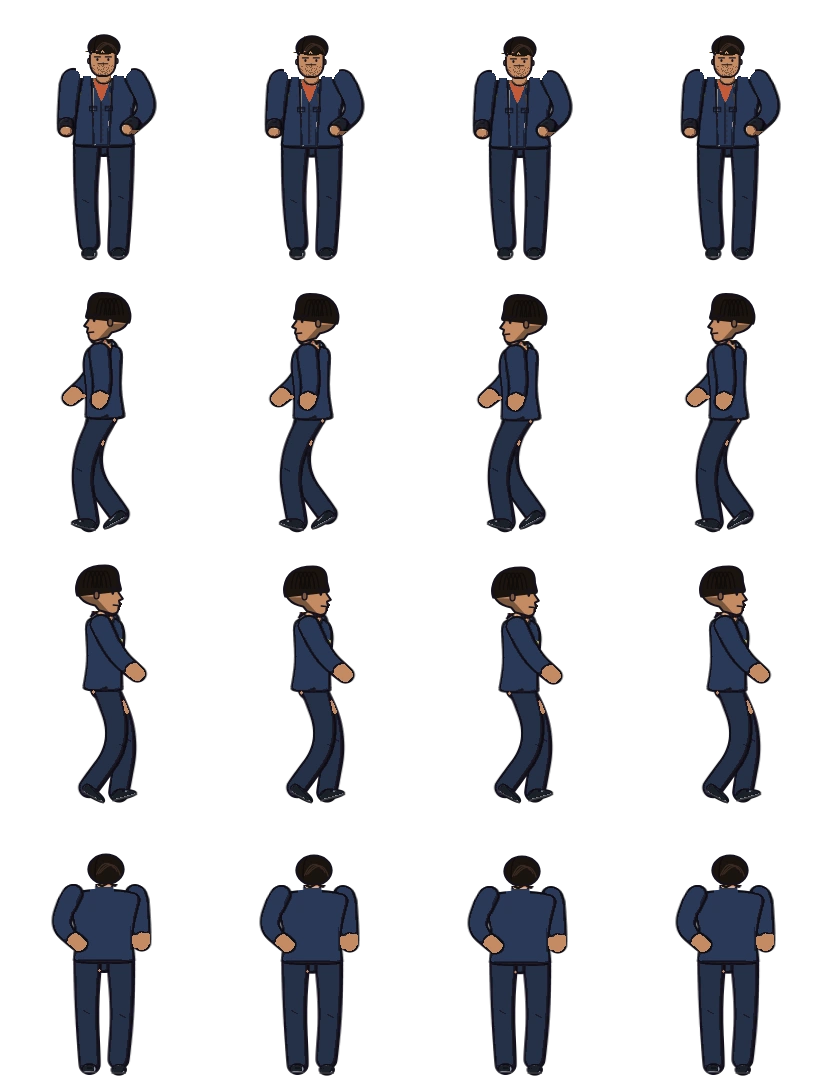
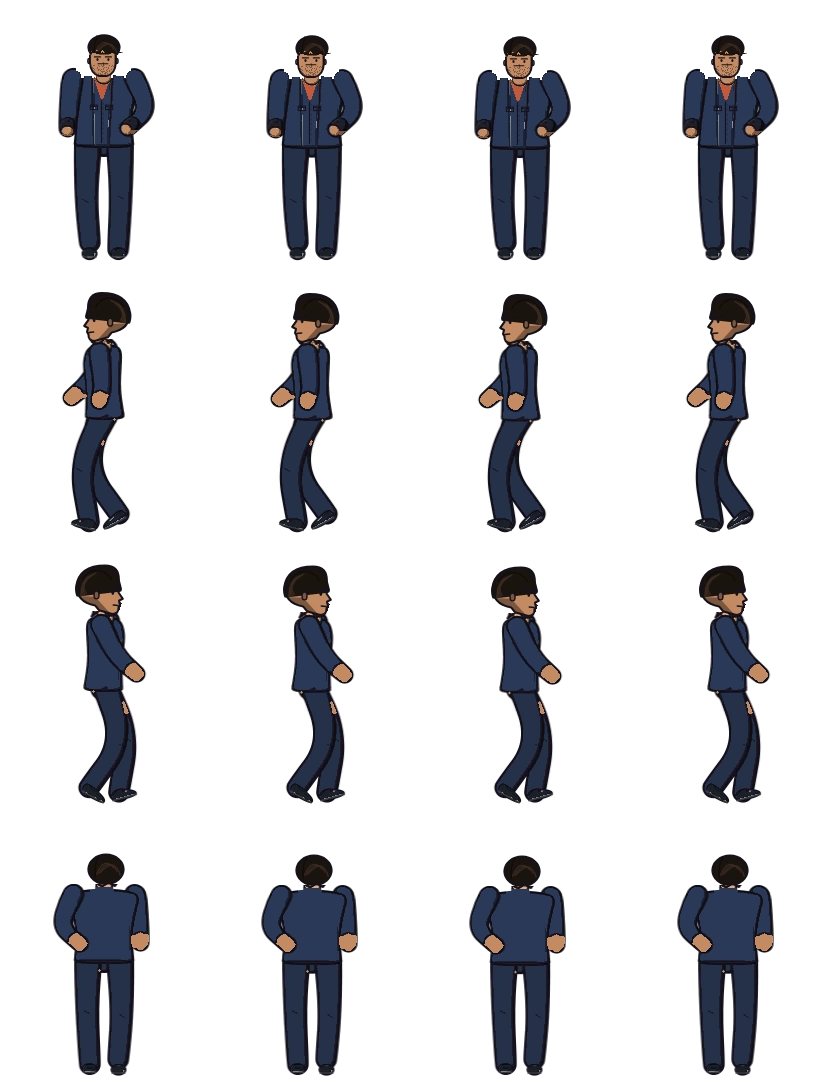
WIP seal2 p4: tighten Sada and Kaji sprites to match their portraits
Drop the ribbed-cap side hair on pomp/tight/slick profiles and slim Sada's
bulk so the walk/fig sheets match the bust.

diff --git a/tools/s2/yk.js b/tools/s2/yk.js
@@ -298,7 +298,10 @@
           x.beginPath(); P.forEach(function (p) { var a1 = f(p[1], p[2]); if (p[0] === 'm') x.moveTo(a1[0], a1[1]); else if (p[0] === 'l') x.lineTo(a1[0], a1[1]); else { var a2 = f(p[3], p[4]); x.quadraticCurveTo(a1[0], a1[1], a2[0], a2[1]); } }); x.closePath(); };
         HP(1); x.fillStyle = rgb(skin.b); x.fill(); x.save(); x.clip(); x.fillStyle = rgb(skin.s); x.beginPath(); x.moveTo(fEdge - dir * sHH * 0.5, sHT + sHH * 0.62); x.lineTo(fEdge - dir * sHH * 0.2, sHT + sHH * 0.95); x.lineTo(fEdge - dir * sHH * 0.9, sHT + sHH * 1.1); x.lineTo(fEdge - dir * sHH * 0.9, sHT + sHH * 0.6); x.fill(); x.restore();
         HP(1); x.lineWidth = 2 * sc; x.lineJoin = 'round'; x.strokeStyle = rgb(INK); x.stroke();
-        capCx = hcxS - dir * sHH * 0.06; capRx = sHH * 0.47; capCy = hcy - sHH * 0.02; capRy = sHH * 0.53; capBot = capCy + capRy; ft = sHT; chinH = sCH; skW = sHH * 0.4; }
+        capCx = hcxS - dir * sHH * 0.06; capRx = sHH * 0.47; capCy = hcy - sHH * 0.02; capRy = sHH * 0.53; capBot = capCy + capRy; ft = sHT; chinH = sCH; skW = sHH * 0.4;
+        /* short hair in profile should hug the skull, not sit like a knit cap */
+        if (spec.tight || spec.hair === 'pomp' || spec.hair === 'slick') { capRx *= 0.86; capRy *= 0.78; capCy = capTop + capRy * 0.98; capBot = capCy + capRy; }
+      }
       x.save(); x.beginPath(); if (sideF) { var fYh = ft + (chinH - ft) * 0.3, bYh = ft + (chinH - ft) * 0.8; x.moveTo(0, 0); x.lineTo(w, 0); x.lineTo(w, dir > 0 ? fYh : bYh); x.lineTo(0, dir > 0 ? bYh : fYh); x.closePath(); } else x.rect(0, 0, w, capBot); x.clip();
       if (HP) HP(1.07); else { x.beginPath(); x.ellipse(capCx, capCy, capRx, capRy, 0, 0, Math.PI * 2); }
       x.fillStyle = rgb(ht.b); x.fill(); x.lineWidth = 2.2 * sc; x.strokeStyle = rgb(INK); x.stroke();
@@ -306,6 +309,17 @@
       else if (spec.tight && !sideF) { x.lineCap = 'round'; x.lineWidth = 1.2 * sc; x.strokeStyle = rgb(spec.hairHi ? hx(spec.hairHi) : ht.h); /* slicked back: comb lines swept from a side part */
         [0, 1, 2].forEach(function (k7) { x.beginPath(); x.moveTo(capCx - capRx * 0.55 + k7 * capRx * 0.1, capCy + capRy * 0.35 - k7 * capRy * 0.05); x.quadraticCurveTo(capCx - capRx * 0.1 + k7 * capRx * 0.3, capTop + capRy * 0.1, capCx + capRx * (0.45 + k7 * 0.18), capCy - capRy * 0.1 + k7 * capRy * 0.25); x.stroke(); });
         x.strokeStyle = rgb(ht.s); x.lineWidth = 1.4 * sc; x.beginPath(); x.moveTo(capCx - capRx * 0.62, capCy + capRy * 0.5); x.quadraticCurveTo(capCx - capRx * 0.66, capTop + capRy * 0.5, capCx - capRx * 0.4, capTop + capRy * 0.15); x.stroke(); }
+      else if (sideF) { /* swept strands along the skull — the old stacked ellipses read as a ribbed beanie */
+        x.lineCap = 'round'; x.strokeStyle = rgb(spec.hairHi ? hx(spec.hairHi) : ht.h); x.lineWidth = 1.15 * sc;
+        for (var gl = 0; gl < 5; gl++) {
+          var t = gl / 4;
+          x.beginPath();
+          x.moveTo(capCx - dir * capRx * (0.05 + t * 0.45), capCy - capRy * (0.7 - t * 0.2));
+          x.quadraticCurveTo(capCx - dir * capRx * 0.95, capCy - capRy * (0.15 - t * 0.1), capCx - dir * capRx * (0.55 + t * 0.25), capCy + capRy * (0.35 + t * 0.4));
+          x.stroke();
+        }
+        x.strokeStyle = rgb(ht.s); x.lineWidth = 1.3 * sc;
+        x.beginPath(); x.ellipse(capCx, capCy, capRx * 0.82, capRy * 0.82, 0, Math.PI * 1.15, Math.PI * 1.85); x.stroke(); }
       else { x.lineWidth = 1.3 * sc; x.strokeStyle = rgb(ht.s); for (var gl = -2; gl <= 2; gl++) { x.beginPath(); x.ellipse(capCx + gl * skW * 0.22, capCy + capRy * 0.2, skW * 0.3, capRy * 0.95, 0, Math.PI * 1.1, Math.PI * 1.9); x.stroke(); } }
       x.restore();
       /* the face back on top of the cap */
@@ -348,7 +362,7 @@
         if (F2.stache) { x.fillStyle = rgb(tri(spec.hairCol || '#151318').b); x.strokeStyle = rgb(INK); x.lineWidth = 0.7 * sc; var sy3 = mY - 1.7 * sc, sw3 = mw * 1.25; /* v6.5.63: a pencil mustache */
           x.beginPath(); x.moveTo(fc9, sy3 - 0.4 * sc); x.quadraticCurveTo(fc9 - sw3 * 0.5, sy3 - 1.3 * sc, fc9 - sw3, sy3 + 0.9 * sc); x.quadraticCurveTo(fc9 - sw3 * 0.5, sy3 + 0.2 * sc, fc9, sy3 + 0.6 * sc); x.quadraticCurveTo(fc9 + sw3 * 0.5, sy3 + 0.2 * sc, fc9 + sw3, sy3 + 0.9 * sc); x.quadraticCurveTo(fc9 + sw3 * 0.5, sy3 - 1.3 * sc, fc9, sy3 - 0.4 * sc); x.fill(); }
         if (spec.stubble) { x.save(); facePath(); x.clip(); x.fillStyle = 'rgba(60,40,36,0.5)'; for (Y = Math.round(fT2 + fH2 * 0.6); Y <= cY; Y++) for (X = Math.round(fc0 - ew9); X <= fc0 + ew9; X++) if (hash(X, Y * 3) < 0.26 && Math.abs(Y - mY) > 0.8) x.fillRect(X, Y, 1, 1); x.restore(); } x.restore(); }
-      if (spec.hair === 'pomp') { var side = face === 'left' || face === 'right', rise = hh * 0.34, qx = side ? capCx + dir * skW * 0.5 : capCx, qy = capTop + (side ? rise * 0.12 : capRy * 0.12), qrx = side ? skW * 0.66 : skW * 0.84, qry = rise * (side ? 0.56 : 0.85);
+      if (spec.hair === 'pomp') { var side = face === 'left' || face === 'right', rise = hh * (side ? 0.22 : 0.28), qx = side ? capCx + dir * skW * 0.35 : capCx, qy = capTop + (side ? rise * 0.08 : capRy * 0.08), qrx = side ? skW * 0.52 : skW * 0.78, qry = rise * (side ? 0.5 : 0.8);
         x.save(); x.translate(qx, qy); x.rotate(dir * -0.42);
         var ht2 = spec.hairCol2 ? tri(spec.hairCol2) : null; x.beginPath(); x.ellipse(0, 0, qrx, qry, 0, Math.PI * 0.92, Math.PI * 2.08); x.fillStyle = rgb(ht.b); x.lineWidth = 2.2 * sc; x.strokeStyle = rgb(INK); x.stroke(); x.fill();
         x.beginPath(); x.ellipse(0, qry * 0.3, qrx * 0.9, qry * 0.45, 0, Math.PI * 0.05, Math.PI * 0.95); x.fillStyle = rgb(ht.s); x.fill();
@@ -828,7 +842,7 @@
 
   /* v6.5.63 seal2 phase 3: Kaji, Masa's lookout at the Funayado. Punk proportions. */
   SPEC.kaji = { base: 'punk', glove: 0, nozig: 1, noScar: 1, clean: 1, skinRe: 1, skin: '#c48a62',
-    bulk: 0.08, pal: { 3: tri('#1a1614'), 4: tri('#2a3858'), 5: tri('#c45a3a'), 6: tri('#243048'), 7: tri('#1a2028') },
+    bulk: 0.04, pal: { 3: tri('#1a1614'), 4: tri('#2a3858'), 5: tri('#c45a3a'), 6: tri('#243048'), 7: tri('#1a2028') },
     pockets: 0.08, closeV: 0.35, stubble: 1, hair: 'tight', tight: 1, hairCol: '#1a1410', hairHi: '#3a2a22',
     face2: { brow: 'flat', browW: 1.2, mouth: 'flat', jaw: 'pointed', w: 0.96, eyeQ: 0.38, mouthQ: 0.55 },
     hands: 1, armsCol: '#2a3858', handsCol: '#c48a62' };
@@ -836,9 +850,9 @@
 
   /* v6.5.63 seal2 phase 4: Sada, Masa's quay dispatcher. Punk proportions, older lieutenant. */
   SPEC.sada = { base: 'punk', glove: 0, nozig: 1, noScar: 1, clean: 1, skinRe: 1, skin: '#c89268',
-    bulk: 0.14, pal: { 3: tri('#3a3228'), 4: tri('#3a463c'), 5: tri('#c9a04a'), 6: tri('#2e382e'), 7: tri('#1a1c20') },
-    pockets: 0.12, closeV: 0.42, stubble: 1, hair: 'pomp', hairCol: '#3a3228', hairHi: '#6a5a48', hairCol2: '#8a8070',
-    face2: { brow: 'flat', browW: 1.3, mouth: 'flat', jaw: 'square', w: 1.02, eyeQ: 0.36, mouthQ: 0.5 },
+    bulk: 0.05, pal: { 3: tri('#3a3228'), 4: tri('#3a463c'), 5: tri('#c9a04a'), 6: tri('#2e382e'), 7: tri('#1a1c20') },
+    pockets: 0.1, closeV: 0.42, stubble: 1, hair: 'pomp', hairCol: '#3a3228', hairHi: '#6a5a48', hairCol2: '#8a8070',
+    face2: { brow: 'flat', browW: 1.3, mouth: 'flat', jaw: 'square', w: 1.0, eyeQ: 0.36, mouthQ: 0.5 },
     hands: 1, armsCol: '#3a463c', handsCol: '#c89268' };
 
   root.FFF_YK = { SPEC: SPEC, paintCell: paintCell, paintSheet: paintSheet, tri: tri };
